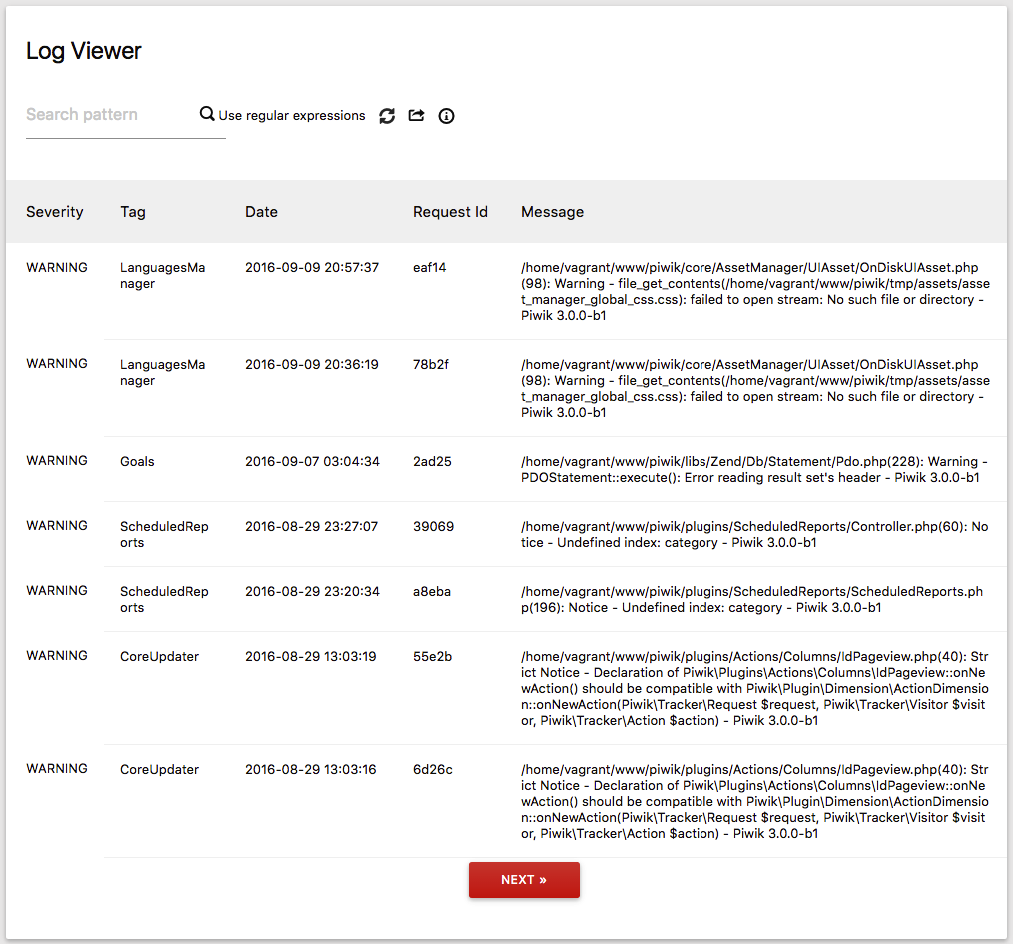
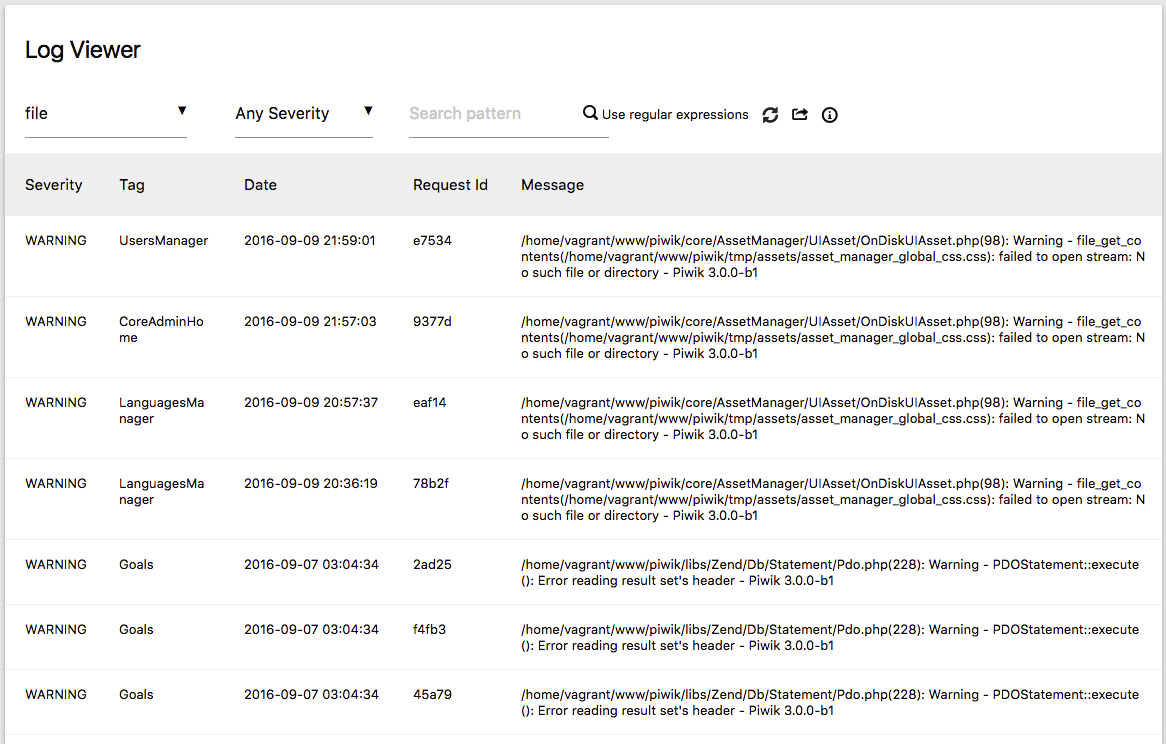
fix logwriter and severity selector was not shown

diff --git a/angularjs/log-viewer/log-viewer.directive.html b/angularjs/log-viewer/log-viewer.directive.html
@@ -1,41 +1,46 @@
 <div class="logViewer">
     <div piwik-content-block content-title="{{ 'LogViewer_LogViewer'|translate }}">
 
-        <p>
-            <select ng-model="logViewer.selectedLogWriter" ng-change="logViewer.update()">
-                <option value="{{ logWriter }}" ng-repeat="logWriter in logViewer.logWriters">
-                    {{ logWriter }}
-                </option>
-            </select>
-            <select ng-model="logViewer.selectedSeverity" ng-change="logViewer.update()">
-                <option value="">{{ 'LogViewer_AnySeverity'|translate|lowercase }}</option>
-                <option value="{{ severity }}" ng-repeat="severity in logViewer.severities">
-                    {{ severity|lowercase }}
-                </option>
-            </select>
-            <input type="text"
-                   class="search"
-                   title="{{ 'LogViewer_SearchHelp'|translate }}"
-                   ng-model="logViewer.query"
-                   placeholder="{{ 'LogViewer_SearchPattern'|translate }}"
-                   piwik-onenter="logViewer.update()">
-            <span ng-click="logViewer.update()" title="{{ 'General_ClickToSearch'|translate }}"
-                 class="icon-search searchIcon"></span>
+        <div class="row">
+            <div piwik-field uicontrol="select" name="logWriter"
+                 ng-model="logViewer.selectedLogWriter"
+                 ng-change="logViewer.update()"
+                 full-width="true"
+                 class="logWriters col s4 m3 l2"
+                 options="logViewer.logWriters">
+            </div>
 
-            <input type="checkbox"
-                   class="useRegExp"
-                   ng-model="logViewer.useRegExp"> {{ 'LogViewer_UseRegExp'|translate }}
+            <div piwik-field uicontrol="select" name="selectedSeverity"
+                 full-width="true"
+                 class="severities col s4 m3 l2"
+                 ng-model="logViewer.selectedSeverity"
+                 ng-change="logViewer.update()"
+                 options="logViewer.severities">
+            </div>
+            <div class="col s12 m12 l8">
+                <input type="text"
+                       class="search"
+                       title="{{ 'LogViewer_SearchHelp'|translate }}"
+                       ng-model="logViewer.query"
+                       placeholder="{{ 'LogViewer_SearchPattern'|translate }}"
+                       piwik-onenter="logViewer.update()">
+                <span ng-click="logViewer.update()" title="{{ 'General_ClickToSearch'|translate }}"
+                     class="icon-search searchIcon"></span>
 
-            <a ng-click="logViewer.update()" class="icon-reload"></a>
-            <a title="{{ 'LogViewer_ExportThisSearch'|translate:'TSV':5000 }}"
-               class="icon-export"
-               ng-href="?module=API&method=LogViewer.getLogEntries&query={{ logViewer.buildQuery() }}&format=TSV&token_auth={{ logViewer.tokenAuth }}&page=0&limitPerPage=5000"></a>
-            <a title="{{ 'LogViewer_CurrentLogConfigIs'|translate:(logViewer.logConfig|json) }}"
-                  class="icon-info"
-                  target="_blank"
-                  href="?module=Proxy&action=redirect&url=https://piwik.org/faq/troubleshooting/faq_115/"></a>
-            <br />
-        </p>
+                <input type="checkbox"
+                       class="useRegExp"
+                       ng-model="logViewer.useRegExp"> {{ 'LogViewer_UseRegExp'|translate }}
+
+                <a ng-click="logViewer.update()" class="icon-reload"></a>
+                <a title="{{ 'LogViewer_ExportThisSearch'|translate:'TSV':5000 }}"
+                   class="icon-export"
+                   ng-href="?module=API&method=LogViewer.getLogEntries&query={{ logViewer.buildQuery() }}&format=TSV&token_auth={{ logViewer.tokenAuth }}&page=0&limitPerPage=5000"></a>
+                <a title="{{ 'LogViewer_CurrentLogConfigIs'|translate:(logViewer.logConfig|json) }}"
+                      class="icon-info"
+                      target="_blank"
+                      href="?module=Proxy&action=redirect&url=https://piwik.org/faq/troubleshooting/faq_115/"></a>
+                <br />
+        </div>
 
         <table piwik-content-table>
             <thead>

diff --git a/angularjs/log-viewer/log-viewer.controller.js b/angularjs/log-viewer/log-viewer.controller.js
@@ -7,10 +7,12 @@
 (function () {
     angular.module('piwikApp').controller('LogViewerController', LogViewerController);
 
-    LogViewerController.$inject = ['$scope', 'piwikApi', 'piwik'];
+    LogViewerController.$inject = ['$scope', 'piwikApi', 'piwik', '$filter'];
 
-    function LogViewerController($scope, piwikApi, piwik) {
+    function LogViewerController($scope, piwikApi, piwik, $filter) {
         var self = this;
+
+        var translate = $filter('translate');
 
         this.page = 0;
         this.query = '';
@@ -18,7 +20,18 @@
         this.logWriters = [];
         this.selectedLogWriter = '';
         this.useRegExp = false;
-        this.severities = ['DEBUG', 'INFO', 'NOTICE', 'WARNING', 'ERROR', 'CRITICAL', 'ALERT', 'EMERGENCY'];
+        this.severities = [
+            {key: '', value: translate('LogViewer_AnySeverity')},
+            {key: 'DEBUG', value: 'DEBUG'},
+            {key: 'INFO', value: 'INFO'},
+            {key: 'NOTICE', value: 'NOTICE'},
+            {key: 'WARNING', value: 'WARNING'},
+            {key: 'ERROR', value: 'ERROR'},
+            {key: 'CRITICAL', value: 'CRITICAL'},
+            {key: 'ALERT', value: 'ALERT'},
+            {key: 'EMERGENCY', value: 'EMERGENCY'}
+        ]
+
         this.selectedSeverity = '';
         this.tokenAuth = piwik.token_auth;
 
@@ -33,7 +46,11 @@
             method: 'LogViewer.getAvailableLogReaders'
         }).then(function (logWriters) {
             if (angular.isArray(logWriters)) {
-                self.logWriters = logWriters;
+                var options = [];
+                angular.forEach(logWriters, function (logWriter) {
+                    options.push({key: logWriter, value: logWriter});
+                });
+                self.logWriters = options;
             }
         }).then(function () {
             return piwikApi.fetch({

diff --git a/angularjs/log-viewer/log-viewer.directive.less b/angularjs/log-viewer/log-viewer.directive.less
@@ -3,6 +3,25 @@
     min-width: 800px;
   }
 
+  .logWriters {
+    padding-left: 0;
+    .input-field {
+      padding-left: 0;
+    }
+  }
+
+  .severities, .logWriters {
+    width: 150px;
+    display: inline-block;
+    .row {
+      margin-top: 0;
+      margin-bottom: 0;
+      .input-field {
+        margin-top: 0;
+      }
+    }
+  }
+
   th {
     text-align: left;
   }
